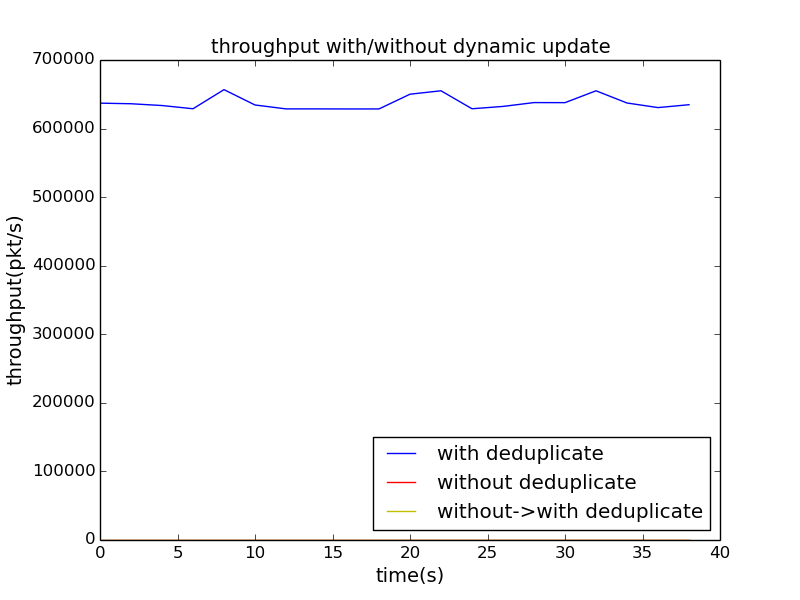
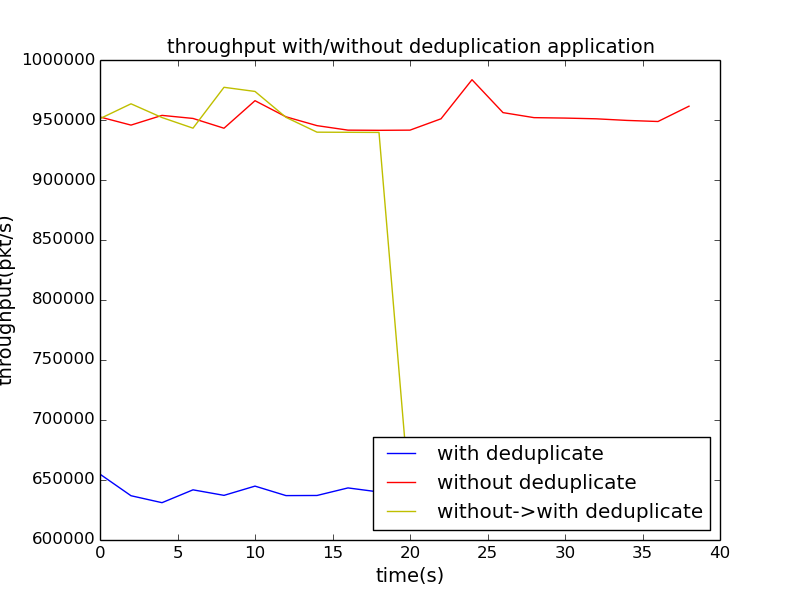
deduplicate fiugre

diff --git a/eval/real_rpc_basic/catch_data.py b/eval/real_rpc_basic/catch_data.py
@@ -80,7 +80,7 @@ def main():
 
 
   pl.figure(num=1,figsize=(8,6))
-  pl.title('throughput with/without dynamic update',size=14)
+  pl.title('throughput with/without deduplication application',size=14)
   pl.xlabel("time(s)",size=14)
   pl.ylabel("throughput(pkt/s)",size=14)
   pl.plot(xlist,ylist,color='b',label="with deduplicate")
